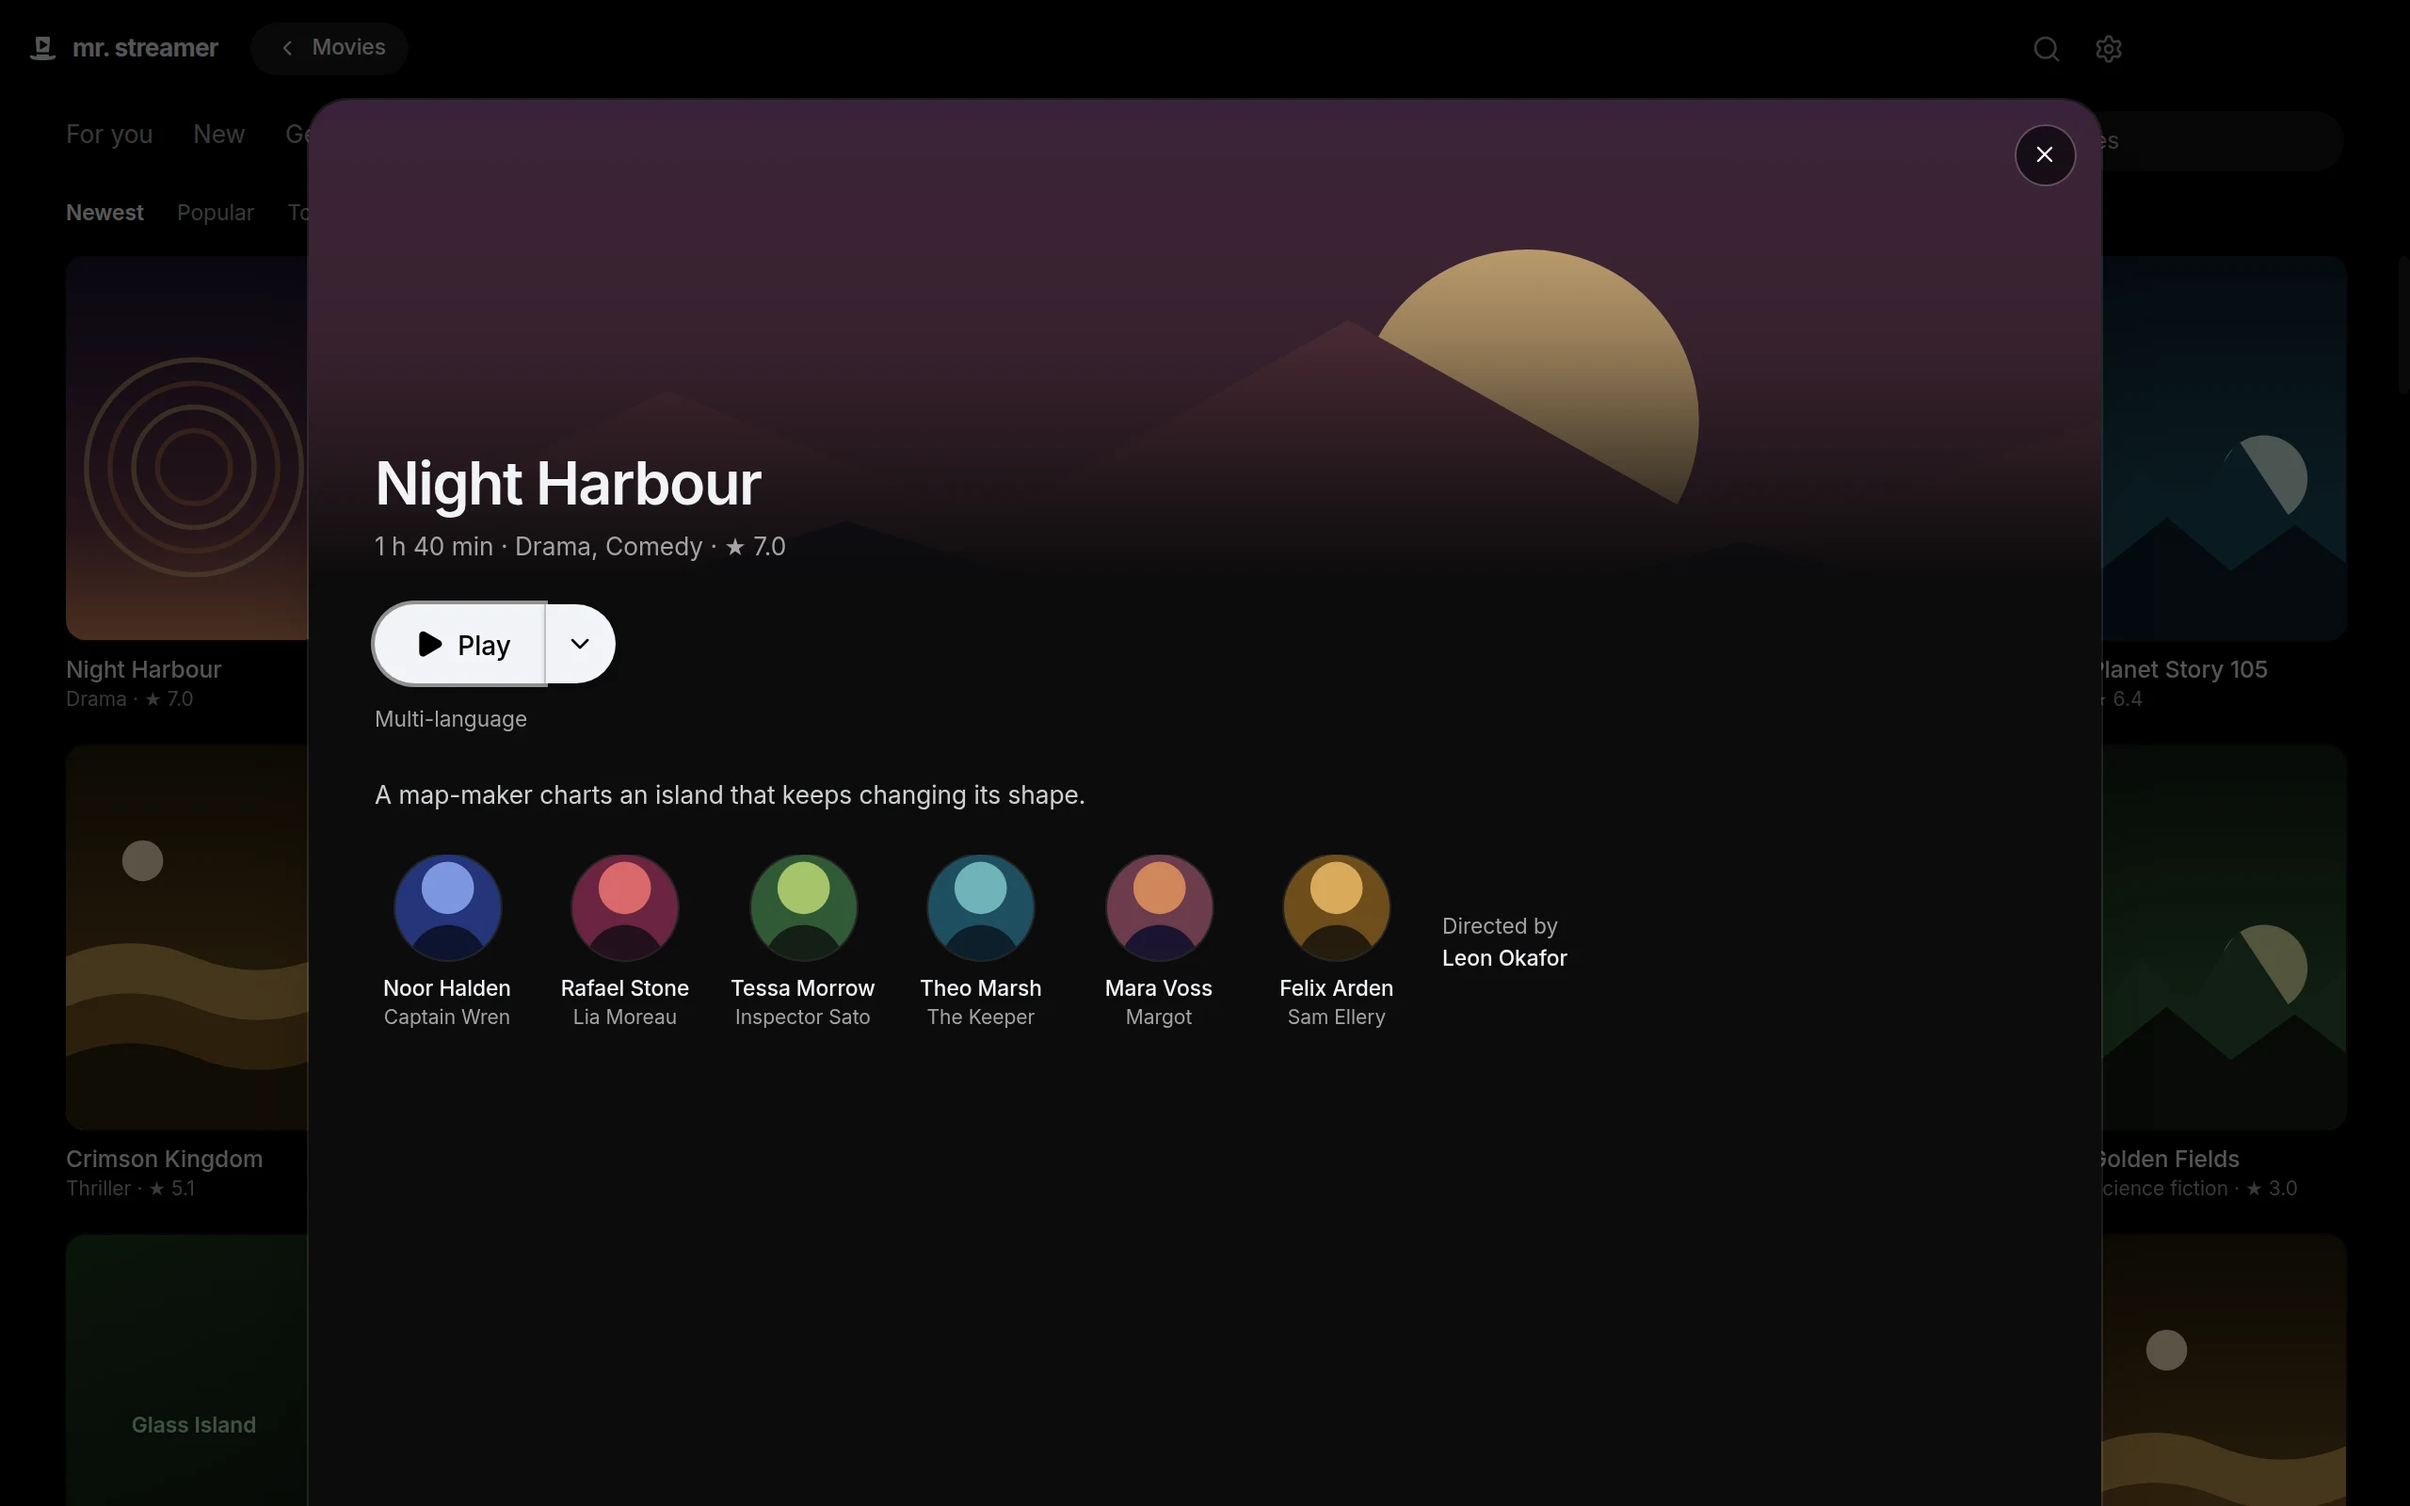
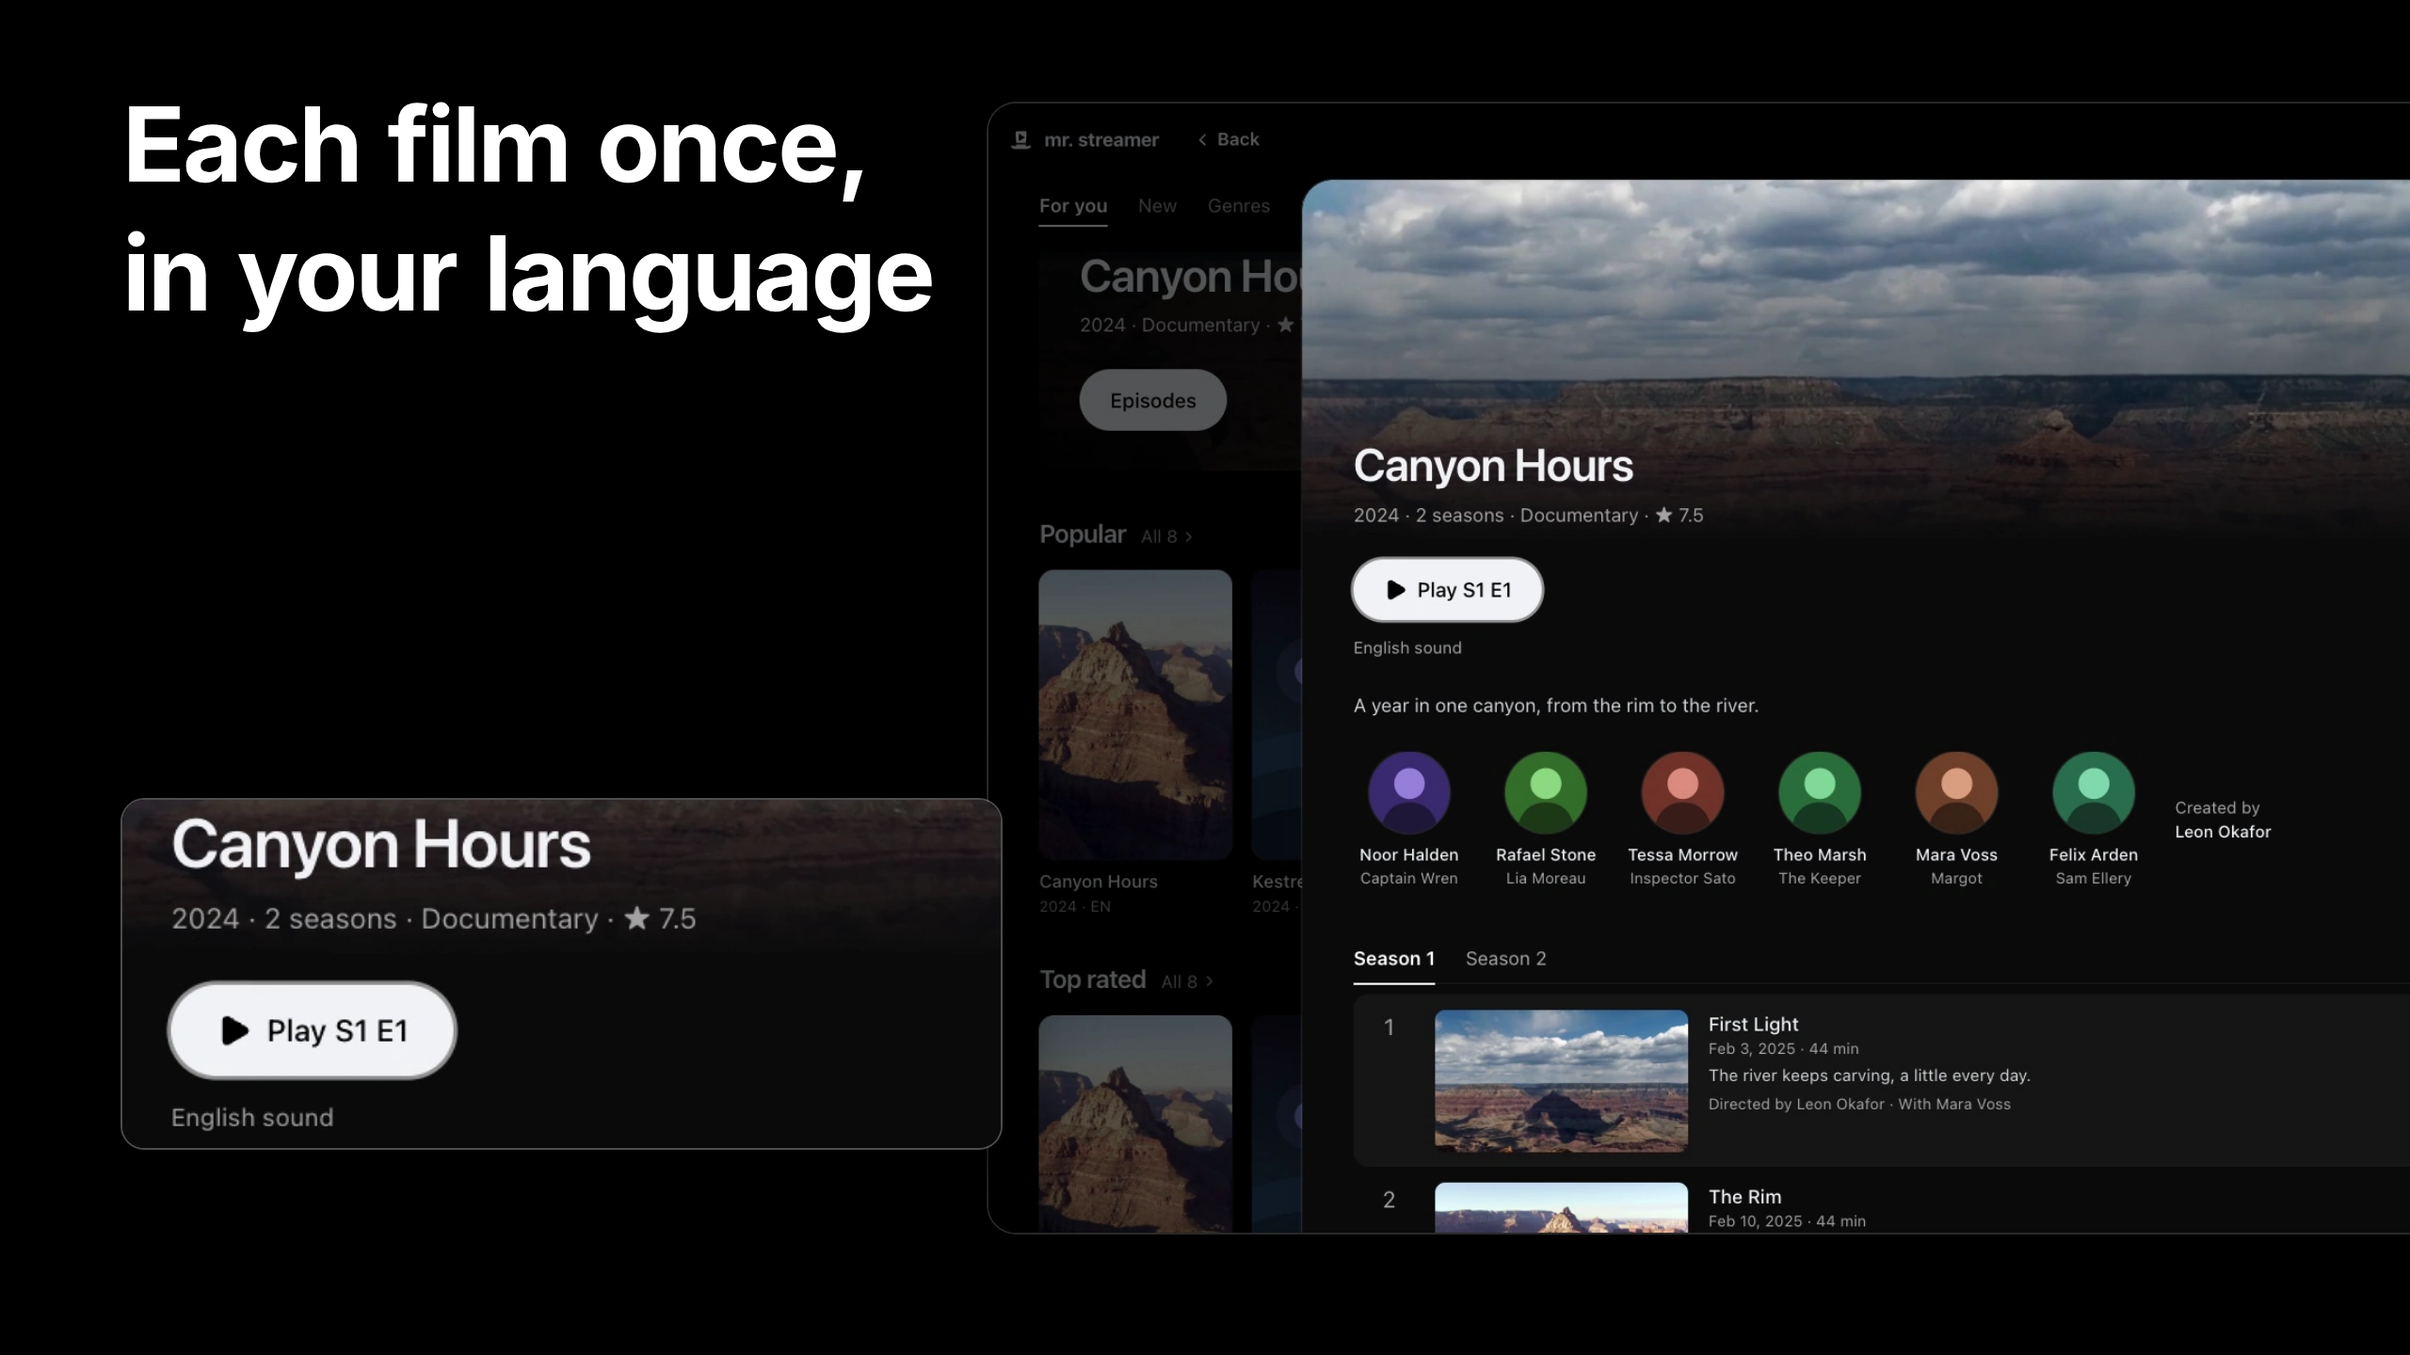
Show the README's pictures as headed compositions

diff --git a/docs/contributing/development.md b/docs/contributing/development.md
@@ -67,4 +67,4 @@ Chromium's credits, which hold Node.js's licence too, are 20 MB of HTML from Ele
 - App icons come from `apps/desktop/assets/brand/`; `pnpm --filter mrstreamer icons:export` renders `apps/desktop/build/icon.*` from `icon.svg` and the Store package's logos in `apps/desktop/build/appx` from `mark.svg` ([releasing](../maintainers/releasing.md#microsoft-store-package) lists them).
 - The DMG window background is `apps/desktop/build/dmg-background.png` and its `@2x` twin; `pnpm --filter mrstreamer dmg:background` renders them on a Mac, so the text uses the system font.
 - The README banner, `docs/assets/banner.png`, is 2560 × 800 for sharp screens: the mark and name, in Inter, beside Home, captured from a development build on a Mac in full screen against the fake provider with made-up channels, programmes and titles. The pictures playing in it are public domain: NASA's views of Earth from the space station on the live channel, and the U.S. National Park Service's Grand Canyon footage for the series being watched. Never use a provider's catalogue, real posters or anything not free to use worldwide in it.
-- The README's screenshots, `docs/assets/live-tv.webp`, `details.webp` and `watching.webp`, are 2560 × 1600 captures of a development build in the same way: the fake provider with its guide, a TMDB stand-in answering with made-up names, stories and people, made-up posters, backdrops and portraits served in place of every image the app asks for, and a short clip of a drawn scene with English and Dutch sound and subtitles in place of the two-track test film. The fake provider's test category is hidden. The same rule holds: nothing from a real provider, film or person.
+- The README's pictures, `docs/assets/live-tv.webp`, `details.webp` and `watching.webp`, are 2560 × 1440 compositions on true black: a heading in Inter, the app window running off the right edge, and one detail of it enlarged. The windows are captures of a development build in the same way: the fake provider with its guide, a TMDB stand-in answering with made-up names, stories and people, and the same public-domain NASA and National Park Service footage as the banner. Only what the app shows goes in them, and the same rule holds: nothing from a real provider, film or person.

diff --git a/README.md b/README.md
@@ -15,25 +15,19 @@
 
 <p align="center"><strong><a href="https://github.com/Mr-Streamer-OSS/MrStreamer/releases/latest">Download for macOS, Windows or Linux</a></strong></p>
 
-### Every channel, with what's on now and next
-
-<img src="docs/assets/live-tv.webp" alt="Live TV: channels with what's on now and next" width="100%">
+<img src="docs/assets/live-tv.webp" alt="Every channel, with what's on now and next: Live TV with its guide" width="100%">
 
 A programme guide, favourites, and the channels you watched last.
 
-### Each film once, in your language
-
-<img src="docs/assets/details.webp" alt="A film's details: its versions, story and cast" width="100%">
+<img src="docs/assets/details.webp" alt="Each film once, in your language: a title's details with Play and its sound language" width="100%">
 
 Stories, artwork and cast, with resume and the next episode.
 
-### Sound and subtitles, your way
-
-<img src="docs/assets/watching.webp" alt="A film playing with English subtitles" width="100%">
+<img src="docs/assets/watching.webp" alt="Sound and subtitles, your way: a series playing with the subtitle menu" width="100%">
 
 Every track your provider sends, on live channels and on demand.
 
-The pictures come from a test provider with made-up titles and artwork.
+The pictures come from a test provider with made-up titles and public-domain footage.
 
 ## What you need
 
